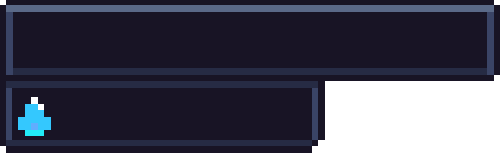
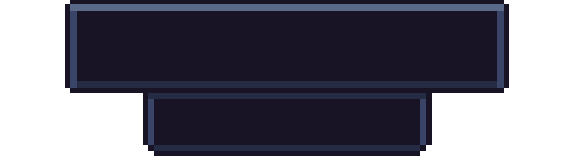
Rotate + changed menu

diff --git a/Forrest Defender/forrest defender.py b/Forrest Defender/forrest defender.py
@@ -7,8 +7,8 @@ from button import Button
 class Game(object):
     def __init__(self):
         # Setting up the Window
-        self.screen_width = 1334
-        self.screen_height = 750
+        self.screen_width = 580
+        self.screen_height = 1080
         self.screen = pygame.display.set_mode((self.screen_width, self.screen_height))
         pygame.display.set_caption('Forrest Defenders')
 
@@ -23,7 +23,7 @@ class Game(object):
         # Game Values
         self.game_state = 1  # 0 = Main_Menu, 1 = Idle_Game, 2 = Shooter
         self.mana_int = 0
-        self.mana_per_second = 1
+        self.mana_per_second = 100
         self.alpha = 0
         # Fonts
 
@@ -31,12 +31,12 @@ class Game(object):
         self.font_small = pygame.font.SysFont('Futura', 35)
 
         # Initialise Sprites
-        self.mana_bar = GameObject('Images/Mana.png', (0, 0), (500, 153))
-        self.dirt = GameObject('Images/dirt.png', (0, 0), (1334, 750))
-        self.menu_panel = GameObject('Images/menu_panel.png', (0, 0), (1334, 750))
+        self.mana_bar = GameObject('Images/Mana.png', (0, 0), (580, 153))
+        self.dirt = GameObject('Images/dirt.png', (0, 0), (580, 1080))
+        self.menu_panel = GameObject('Images/menu_panel.png', (self.screen_width, self.screen_height * 0.15), (1334, 750))
         self.mana_drop_x = 600
         self.mana_drop_y = 300
-        self.mana_drop = GameObject('Images/manadrop.png', (600, 300), (17, 20))
+        self.mana_droplet = GameObject('Images/manadrop.png', (600, 300), (17, 20))
 
         # Initial Image
         self.menu_img = pygame.image.load('Images/Menu.png')
@@ -47,13 +47,18 @@ class Game(object):
         self.right_arrow_p_img = pygame.image.load('Images/Right Arrow Pressed.png')
 
         # Initialise Button
-        self.menu = Button(1150, 0, self.menu_img, self.menu_p_image, 1)
+        self.menu = Button(self.screen_width - self.menu_img.get_width(), self.screen_height * 0.4, self.menu_img, self.menu_p_image, 1)
         self.left_arrow = Button(20, 400, self.left_arrow_img, self.left_arrow_p_img, 1)
         self.right_arrow = Button(1230, 400, self.right_arrow_img, self.right_arrow_p_img, 1)
 
         # Initialise Text
         self.mana = self.font.render(str(self.mana_int), True, WHITE)
-        self.mana_incr = self.font.render(str(self.mana_per_second) + "/s", True, WHITE)
+        self.mana_rect = pygame.Rect(0, 0, self.mana.get_width(), self.mana.get_height())
+        self.mana_bar_droplet = GameObject('Images/manadrop bar.png', (
+        self.mana_bar.rect.width * 0.5 - self.mana_rect.width * 0.5 - self.mana_droplet.rect.width, 300), (34, 40))
+
+        self.mana_incr = self.font.render(str(self.mana_per_second) + " m/s", True, WHITE)
+        self.mana_incr_rect = pygame.Rect(0, 0, self.mana_incr.get_width(), self.mana_incr.get_height())
         self.mana_incr_drop = self.font_small.render(str(self.mana_per_second), True, WHITE)
         self.mana_incr_drop_rect = pygame.Rect(630, 300, 100, 100)
     # Update Function
@@ -62,29 +67,32 @@ class Game(object):
             # Increments Mana
             self.mana_int += self.mana_per_second * self.dt
             self.mana = self.font.render(str(int(self.mana_int)), True, WHITE)
+            self.mana_rect = pygame.Rect(0, 0, self.mana.get_width(), self.mana.get_height())
+
+            if self.menu_panel.visibility == True:
+                if self.menu_panel.rect.x > self.screen_width * 0.2:
+                    self.menu_panel.rect.x -= 2000 * self.dt
+                    self.menu.rect.x = self.menu_panel.rect.x - self.menu.rect.width
+            if self.menu_panel.visibility == False:
+                if self.menu_panel.rect.x < self.screen_width:
+                    self.menu_panel.rect.x += 2000 * self.dt
+                    self.menu.rect.x = self.menu_panel.rect.x - self.menu.rect.width
             # Checks Menu
             if self.menu.clicked:
                 self.menu.c_img = self.menu.p_image
             else:
                 self.menu.c_img = self.menu.d_image
 
-            if self.left_arrow.clicked:
-                self.left_arrow.c_img = self.left_arrow.p_image
-            else:
-                self.left_arrow.c_img = self.left_arrow.d_image
 
-            if self.right_arrow.clicked:
-                self.right_arrow.c_img = self.right_arrow.p_image
-            else:
-                self.right_arrow.c_img = self.right_arrow.d_image
 
             # Mana Gain sprite
-            self.mana_drop.rect.y -= 250 * self.dt
-            self.mana_drop.image.set_alpha(self.alpha)
+            self.mana_droplet.rect.y -= 250 * self.dt
+            self.mana_droplet.image.set_alpha(self.alpha)
             self.alpha += 300 * self.dt
             self.mana_incr_drop_rect.y -= 250 * self.dt
-            if self.mana_drop.rect.y < 50:
-                self.mana_drop.rect.y = 300
+            
+            if self.mana_droplet.rect.y < 50:
+                self.mana_droplet.rect.y = 300
                 self.mana_incr_drop_rect.y = 300
                 self.alpha = 0
             pygame.display.flip()
@@ -94,16 +102,14 @@ class Game(object):
     def render(self):
         if self.game_state == 1:
             self.screen.blit(self.dirt.image, self.dirt.rect)
-            self.screen.blit(self.mana_drop.image, self.mana_drop.rect)
+            self.screen.blit(self.mana_droplet.image, self.mana_droplet.rect)
             self.screen.blit(self.mana_incr_drop, self.mana_incr_drop_rect)
             self.screen.blit(self.mana_bar.image, self.mana_bar.rect)
-            self.screen.blit(self.mana, (30, 25))
-            self.screen.blit(self.mana_incr, (70, 100))
+            self.screen.blit(self.mana, (self.mana_bar.rect.width * 0.5 - self.mana_rect.width * 0.5, 30))
+            self.screen.blit(self.mana_bar_droplet.image,(self.mana_bar.rect.width * 0.5 - self.mana_rect.width * 0.5 - self.mana_bar_droplet.rect.width - 10, 30))
+            self.screen.blit(self.mana_incr, (self.mana_bar.rect.width * 0.5 - self.mana_incr_rect.width * 0.5, 110))
             self.screen.blit(self.menu.c_img, self.menu.rect)
-            if self.menu_panel.visibility:
-                self.screen.blit(self.menu_panel.image, self.menu_panel.rect)
-                self.screen.blit(self.left_arrow.c_img, self.left_arrow.rect)
-                self.screen.blit(self.right_arrow.c_img, self.right_arrow.rect)
+            self.screen.blit(self.menu_panel.image, self.menu_panel.rect)
 
     # Input Function
     def inputs(self):
@@ -113,7 +119,10 @@ class Game(object):
                     self.menu_panel.visibility = False
                 elif not self.menu_panel.visibility:
                     self.menu_panel.visibility = True
-            self.left_arrow.click()
+            if self.left_arrow.click():
+               self.screen_width = 580
+               self.screen_height = 1080
+               self.screen = pygame.display.set_mode((self.screen_width, self.screen_height))
             self.right_arrow.click()
 
     def run(self):
